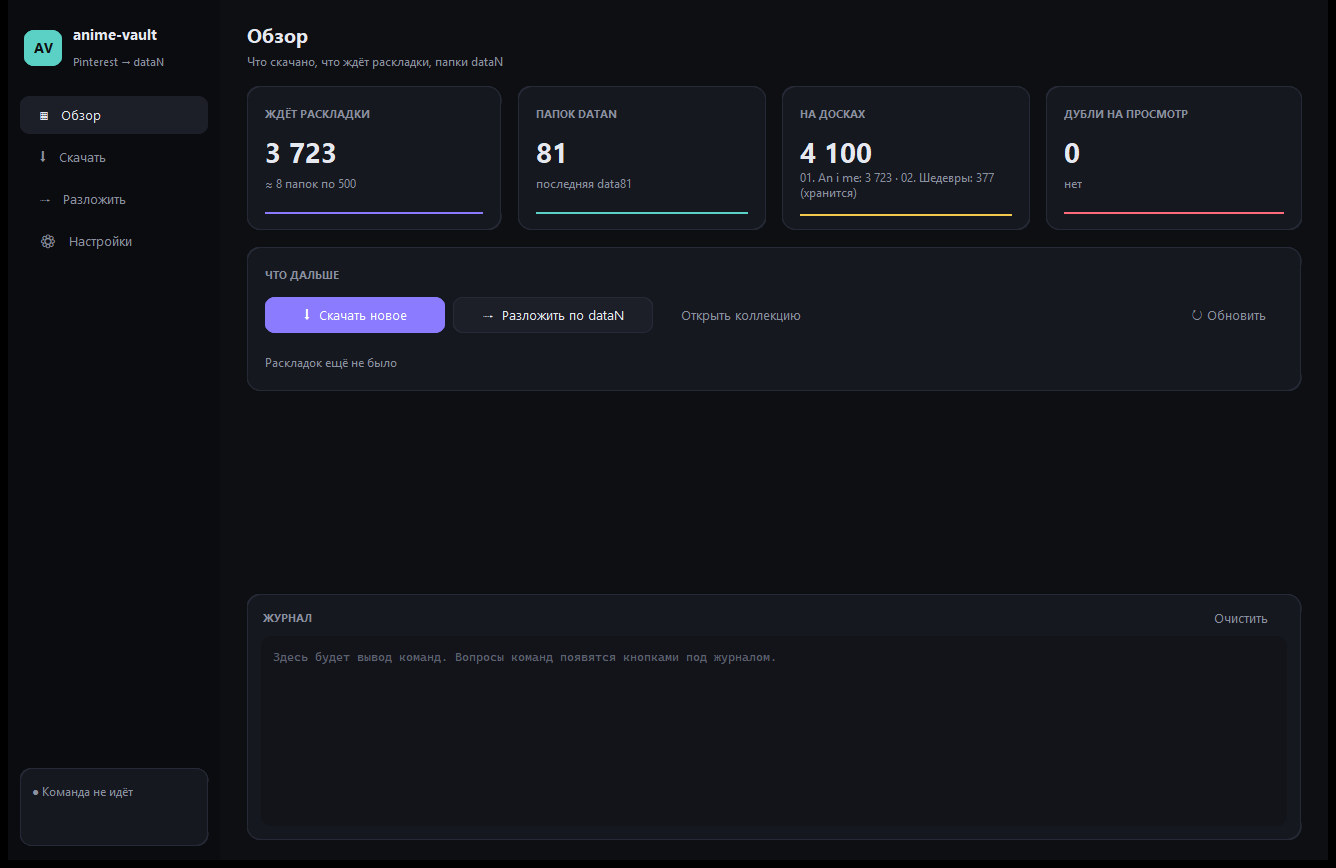
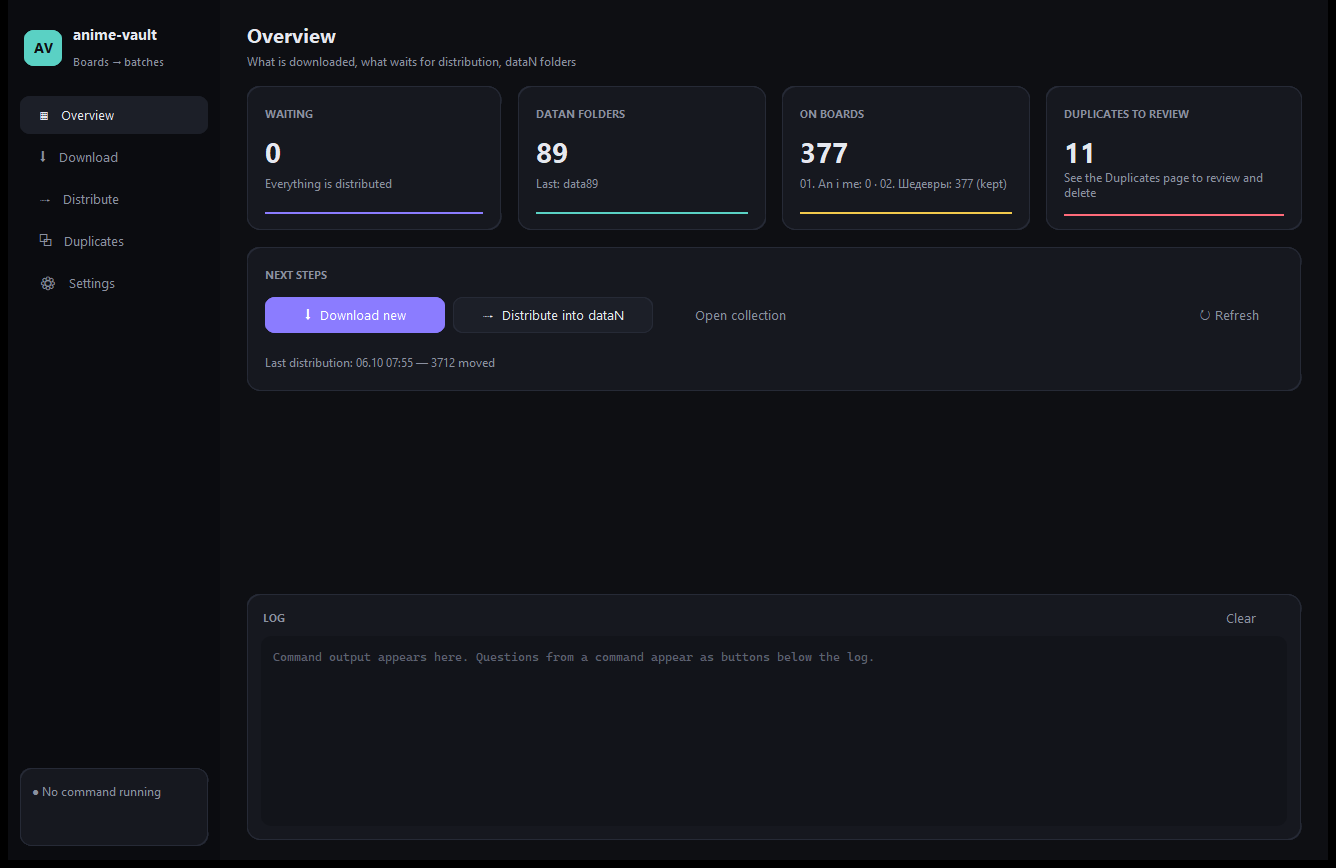
Fix CI on English Windows, release workflow, README and screenshots
- Tests pin the Russian UI (the runner's Windows is English)
- Release workflow: a v* tag builds anime-vault.exe and publishes the zip
- README.md / README.txt describe links, languages, browsers, other sites, duplicates and the exe
- English screenshots; dataN keeps its case in card titles

diff --git a/anime_vault/gui/app.py b/anime_vault/gui/app.py
@@ -70,7 +70,8 @@ class Card(ctk.CTkFrame):
     def __init__(self, parent, title: str = "", **options):
         super().__init__(parent, fg_color=PANEL, corner_radius=14, border_width=1, border_color=LINE, **options)
         if title:
-            ctk.CTkLabel(self, text=title.upper(), font=font(11, "bold"), text_color=MUTED).pack(anchor="w", padx=18, pady=(14, 4))
+            # Заголовки карточек — капсом, но имя папок dataN остаётся как есть.
+            ctk.CTkLabel(self, text=title.upper().replace("DATAN", "dataN"), font=font(11, "bold"), text_color=MUTED).pack(anchor="w", padx=18, pady=(14, 4))
 
 
 class Stat(Card):

diff --git a/tests/conftest.py b/tests/conftest.py
@@ -1,0 +1,11 @@
+"""Тесты пишутся под русский интерфейс: без этого язык берётся из Windows (на сервере CI она английская)."""
+import pytest
+
+from anime_vault import i18n
+
+
+@pytest.fixture(autouse=True)
+def russian():
+    i18n.set_language("ru")
+    yield
+    i18n.set_language("ru")

diff --git a/README.md b/README.md
@@ -1,82 +1,88 @@
 # anime-vault
 
-A small Windows tool that feeds [anime-sort](https://github.com/yndarra/anime-sort): it downloads **only new** pins
-from private Pinterest boards and distributes fresh images into fixed-size `dataN` batches that anime-sort then
-sorts by title and character. It has a CustomTkinter window and plain `.bat` launchers that run the same commands.
+A Windows app that keeps a local image collection in sync with your boards: it downloads **only new** images from
+Pinterest boards (private ones too) or any site [gallery-dl](https://github.com/mikf/gallery-dl) supports, skips
+everything already in the collection, and splits fresh files into fixed-size `dataN` batches. It was built to feed
+[anime-sort](https://github.com/yndarra/anime-sort), which sorts those batches by title and character, but works on
+its own as well. Russian and English UI.
 
-![anime-vault window: what is waiting for distribution, dataN folders, board sizes, duplicates](docs/images/overview.png)
+![Overview: what waits for distribution, dataN folders, board sizes, duplicates to review](docs/images/overview.png)
+
+## Download
+
+Grab `anime-vault-windows.zip` from [Releases](https://github.com/yndarra/anime-vault/releases), unpack it anywhere
+and run `anime-vault.exe`. No Python needed: gallery-dl is built in. Settings, the hash cache and logs are stored next
+to the program.
 
 ## Features
 
-- **Incremental Pinterest download.** `download` runs [gallery-dl](https://github.com/mikf/gallery-dl) with the
-  browser's cookies (private boards) and skips every pin that already lives anywhere in the collection — in any
-  `dataN` batch or in a distribution source — by pre-filling the gallery-dl archive. Pin title and description
-  are embedded into the JPEG/PNG metadata, where anime-sort reads them as hints.
-- **Keep-only boards.** A board marked `"keep": true` is kept in sync with Pinterest but is never distributed, even if
-  it is listed among the sources by mistake.
-- **Distribution with de-duplication.** `distribute` collects new files from the sources, drops duplicates (the same
-  pin by its id, any other image by SHA-1 with a persistent hash cache), shows a plan
-  (`data82: 500, data83: 500, data84: 213`) and moves the files only after confirmation. Duplicates go to a review
-  folder; every run writes a JSON journal.
-- **Friendly errors.** Every known failure (not logged in, browser still open so cookies are locked, HTTP 429,
-  wrong paths) is printed in red with a "what to do" hint.
-- **GUI.** Overview, Download (with a live "browser is open / closed" indicator), Distribute and Settings pages,
-  plus a colour log. The commands run as a subprocess; their console questions arrive over a tiny line protocol
-  (`\x1eASK\t<question>\t<options>`) and become buttons. No console windows flash: child processes are started
-  with `CREATE_NO_WINDOW`, and the browser check uses a Toolhelp32 process snapshot instead of `tasklist`.
+- **Boards by link.** Paste a board URL in Settings and the folder name fills itself in. Pinterest boards of other users,
+  Danbooru tag searches, Pixiv, X and anything else gallery-dl handles work the same way.
+- **Only new files.** Before downloading, every file already in the collection (any `dataN` batch or distribution
+  source) is added to the gallery-dl archive, so moved or sorted files are never fetched again. Pins are recognised
+  by id (numeric and alphanumeric), other sites by `<site>_<id>`, everything else by SHA-1 with a persistent cache.
+- **Signing in your way.** Cookies from Opera, Chrome, Edge, Brave, Vivaldi or Firefox, or a `cookies.txt` file.
+  The Download page shows live whether the browser still has to be closed (Chromium browsers lock their cookies;
+  Firefox and cookie files do not).
+- **Text inside the image.** Pin title and description, or Danbooru character and copyright tags, are embedded into
+  JPEG/PNG metadata, where anime-sort reads them as hints.
+- **Keep-only boards.** A board marked *Keep only* stays in sync but is never distributed.
+- **Distribution with a plan.** New files are moved into `dataN` folders of the chosen size after a confirmation
+  (`data82: 500, data83: 500, data84: 213`). Distribution can be switched off if you only want downloads.
+- **Duplicates page.** Every duplicate is shown next to the file it duplicates, with *Show original* and *To Recycle Bin*
+  (single or all). Nothing is ever deleted permanently.
+- **Friendly errors.** Locked or encrypted cookies, a private board, HTTP 429, an unsupported URL — each comes with
+  a "what to do" hint. Interrupted runs resume where they stopped.
 
-## Layout
+![Download page: steps for the chosen browser and a live "browser is open / closed" indicator](docs/images/download.png)
 
-The collection folder holds the images and a manifest, `anime-paths.json`, with paths relative to the collection
-root (so the root can be moved) and the locations of both projects. Personal settings — batch size, Pinterest user,
-boards and the browser profile — live in the project's `config.json`, which is not committed.
+## How it works
 
-```
-Pictures/Anime/
-  anime-paths.json          collection manifest, read by anime-vault and anime-sort
-  data/Anime JSON Pinterest/data/<board>/   downloaded boards, images straight in the board folder
-  data/Anime ADD/processed_data/            manually curated images, also a distribution source
-  dataN/data1, data2, …     batches for anime-sort
-  test-dataN/               datasets processed by anime-sort
-```
+The window runs the same commands as the console launchers (`python -m anime_vault download|distribute`) in a
+subprocess without a console. Questions from a command arrive over a tiny line protocol
+(`\x1eASK\t<question>\t<options>`) and become buttons. The packaged exe calls itself for commands and for the
+bundled gallery-dl (`anime-vault.exe --gallery-dl …`), re-attaching stdio handles that a windowed program does not get
+by default. The browser check uses a Toolhelp32 process snapshot, so no console window ever flashes.
 
-## Setup
+## Run from source
 
 Windows, Python 3.12.
 
 ```bat
 py -3.12 -m venv venv
 venv\Scripts\pip install -r requirements.txt
-copy config.example.json config.json
+venv\Scripts\pythonw -m anime_vault
 ```
 
-1. Edit `config.json`: the collection folder, your Pinterest user name, the boards (`name` is the folder, `slug` is the
-   board's URL part) and the browser profile for cookies.
-2. Copy `anime-paths.example.json` into the collection folder as `anime-paths.json` and adjust the paths.
-3. Open the window with `anime-vault.vbs`, or put copies of `launchers/anime-vault.bat` into the collection named
-   `download.bat` and `distribute.bat` — the command is taken from the file name.
+Settings live in `config.json` (created by the Settings page; `config.example.json` shows the format). For anime-sort,
+put `anime-paths.json` (see `anime-paths.example.json`) into the collection folder; without it the collection uses
+`dataN` for batches and the board folders as sources. Copies of `launchers/anime-vault.bat` named `download.bat` and
+`distribute.bat` run the commands from the collection folder.
 
 ## Development
 
 ```bat
-venv\Scripts\pip install -r requirements-dev.txt
+venv\Scripts\pip install -r requirements-dev.txt pyinstaller
 venv\Scripts\ruff check .
 venv\Scripts\pytest -q
+venv\Scripts\python packaging\build.py
 ```
 
-The tests build a throwaway collection in a temp folder and cover pin keys, batch numbering, keep-only boards,
-a full distribution run (moves, duplicates, journal) and the GUI's output parsing. CI runs them on `windows-latest`.
+Tests build throwaway collections in a temp folder: link parsing, cookie options, keep-only boards, a full
+distribution run with the duplicate → original journal, and a check that every UI string has an English translation
+with the same placeholders. CI runs them on `windows-latest`; pushing a `v*` tag builds the exe and publishes a release.
 
 | Module | Purpose |
 | --- | --- |
-| `anime_vault/manifest.py` | reads `anime-paths.json` and `config.json` |
-| `anime_vault/known.py` | what is already in the collection: pins by id, other files by cached SHA-1 |
-| `anime_vault/download.py` | gallery-dl run, metadata embedding, error explanations |
-| `anime_vault/distribute.py` | distribution into `dataN` |
-| `anime_vault/console.py` | colour output, user-facing errors, the GUI question protocol |
-| `anime_vault/gui/` | the window: `app.py` pages, `runner.py` subprocess and questions, `collection.py` stats |
+| `anime_vault/manifest.py` | collection manifest, settings, board links |
+| `anime_vault/known.py` | what is already in the collection: keys by file name, SHA-1 with cache |
+| `anime_vault/download.py` | gallery-dl runs, metadata embedding, error explanations |
+| `anime_vault/distribute.py` | distribution into `dataN` with a journal |
+| `anime_vault/browsers.py` | cookie sources and the "is the browser running" check |
+| `anime_vault/i18n.py`, `en.py` | Russian / English UI |
+| `anime_vault/gui/` | the window: pages, subprocess runner, collection stats and duplicates |
 
-Code comments and the user-facing text are in Russian; [README.txt](README.txt) is the full Russian manual.
+Code comments are in Russian; [README.txt](README.txt) is the full Russian manual.
 
 ## License
 
